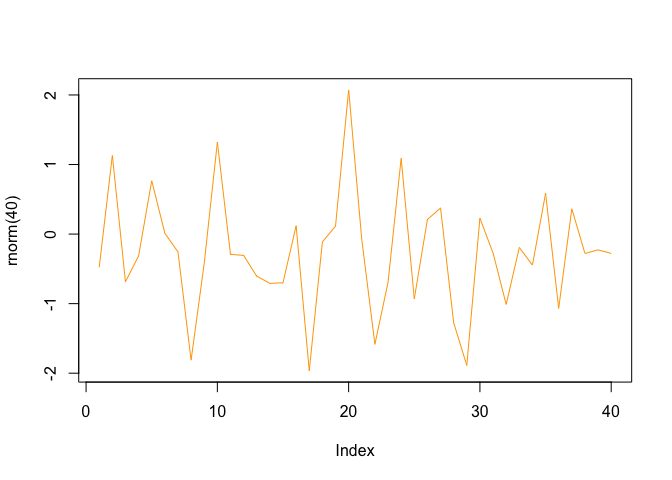
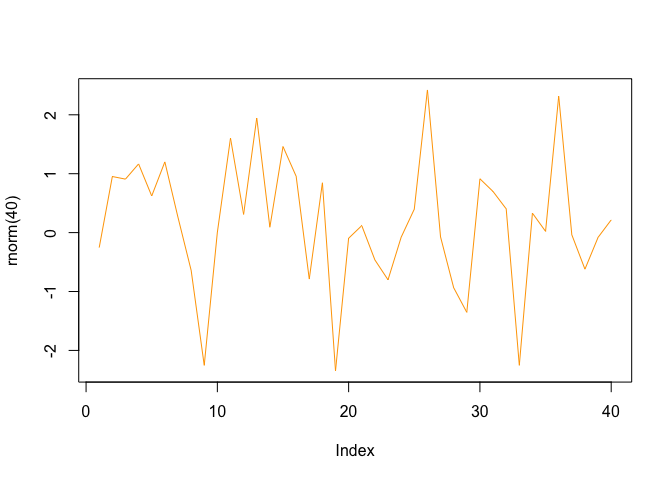
Remove code from rnorm plot

diff --git a/rstudio_report.md b/rstudio_report.md
@@ -26,10 +26,6 @@ summary(cars)
 Including Plots
 ---------------
 
-``` r
-plot(rnorm(40), type = "l", col = "orange")
-```
-
 ![](rstudio_report_files/figure-markdown_github/unnamed-chunk-1-1.png)
 
 You can also embed plots, for example:
